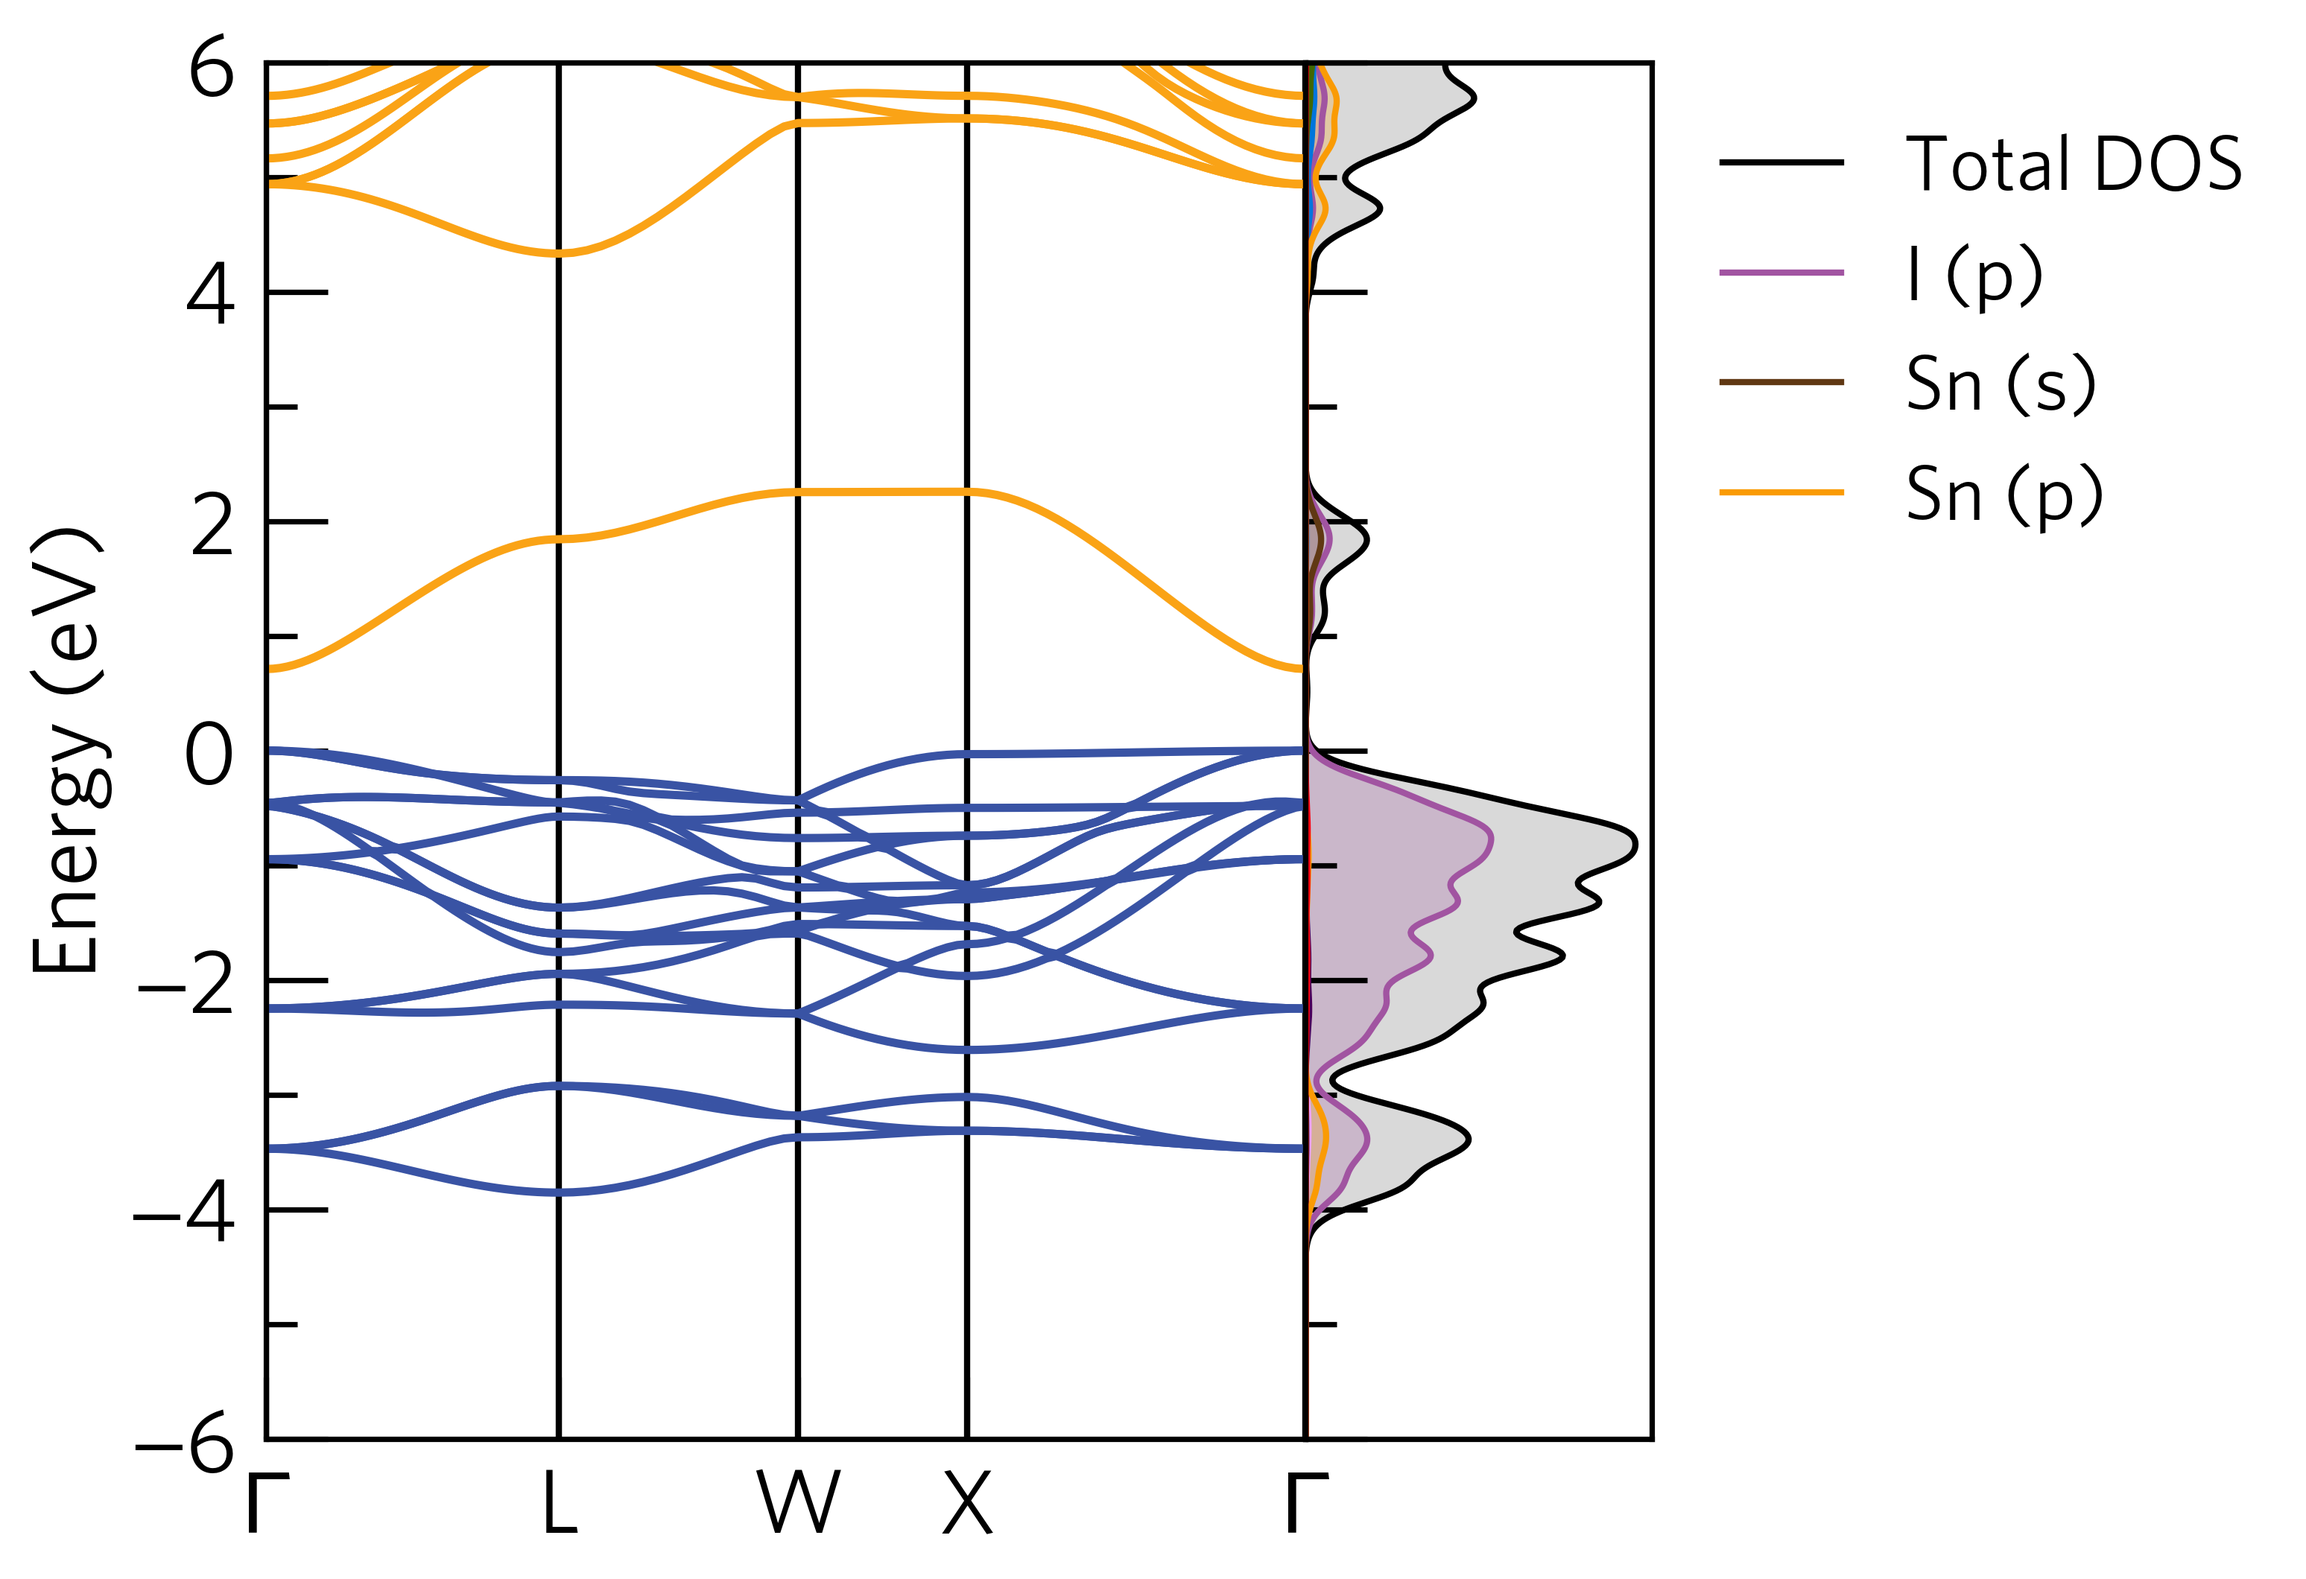
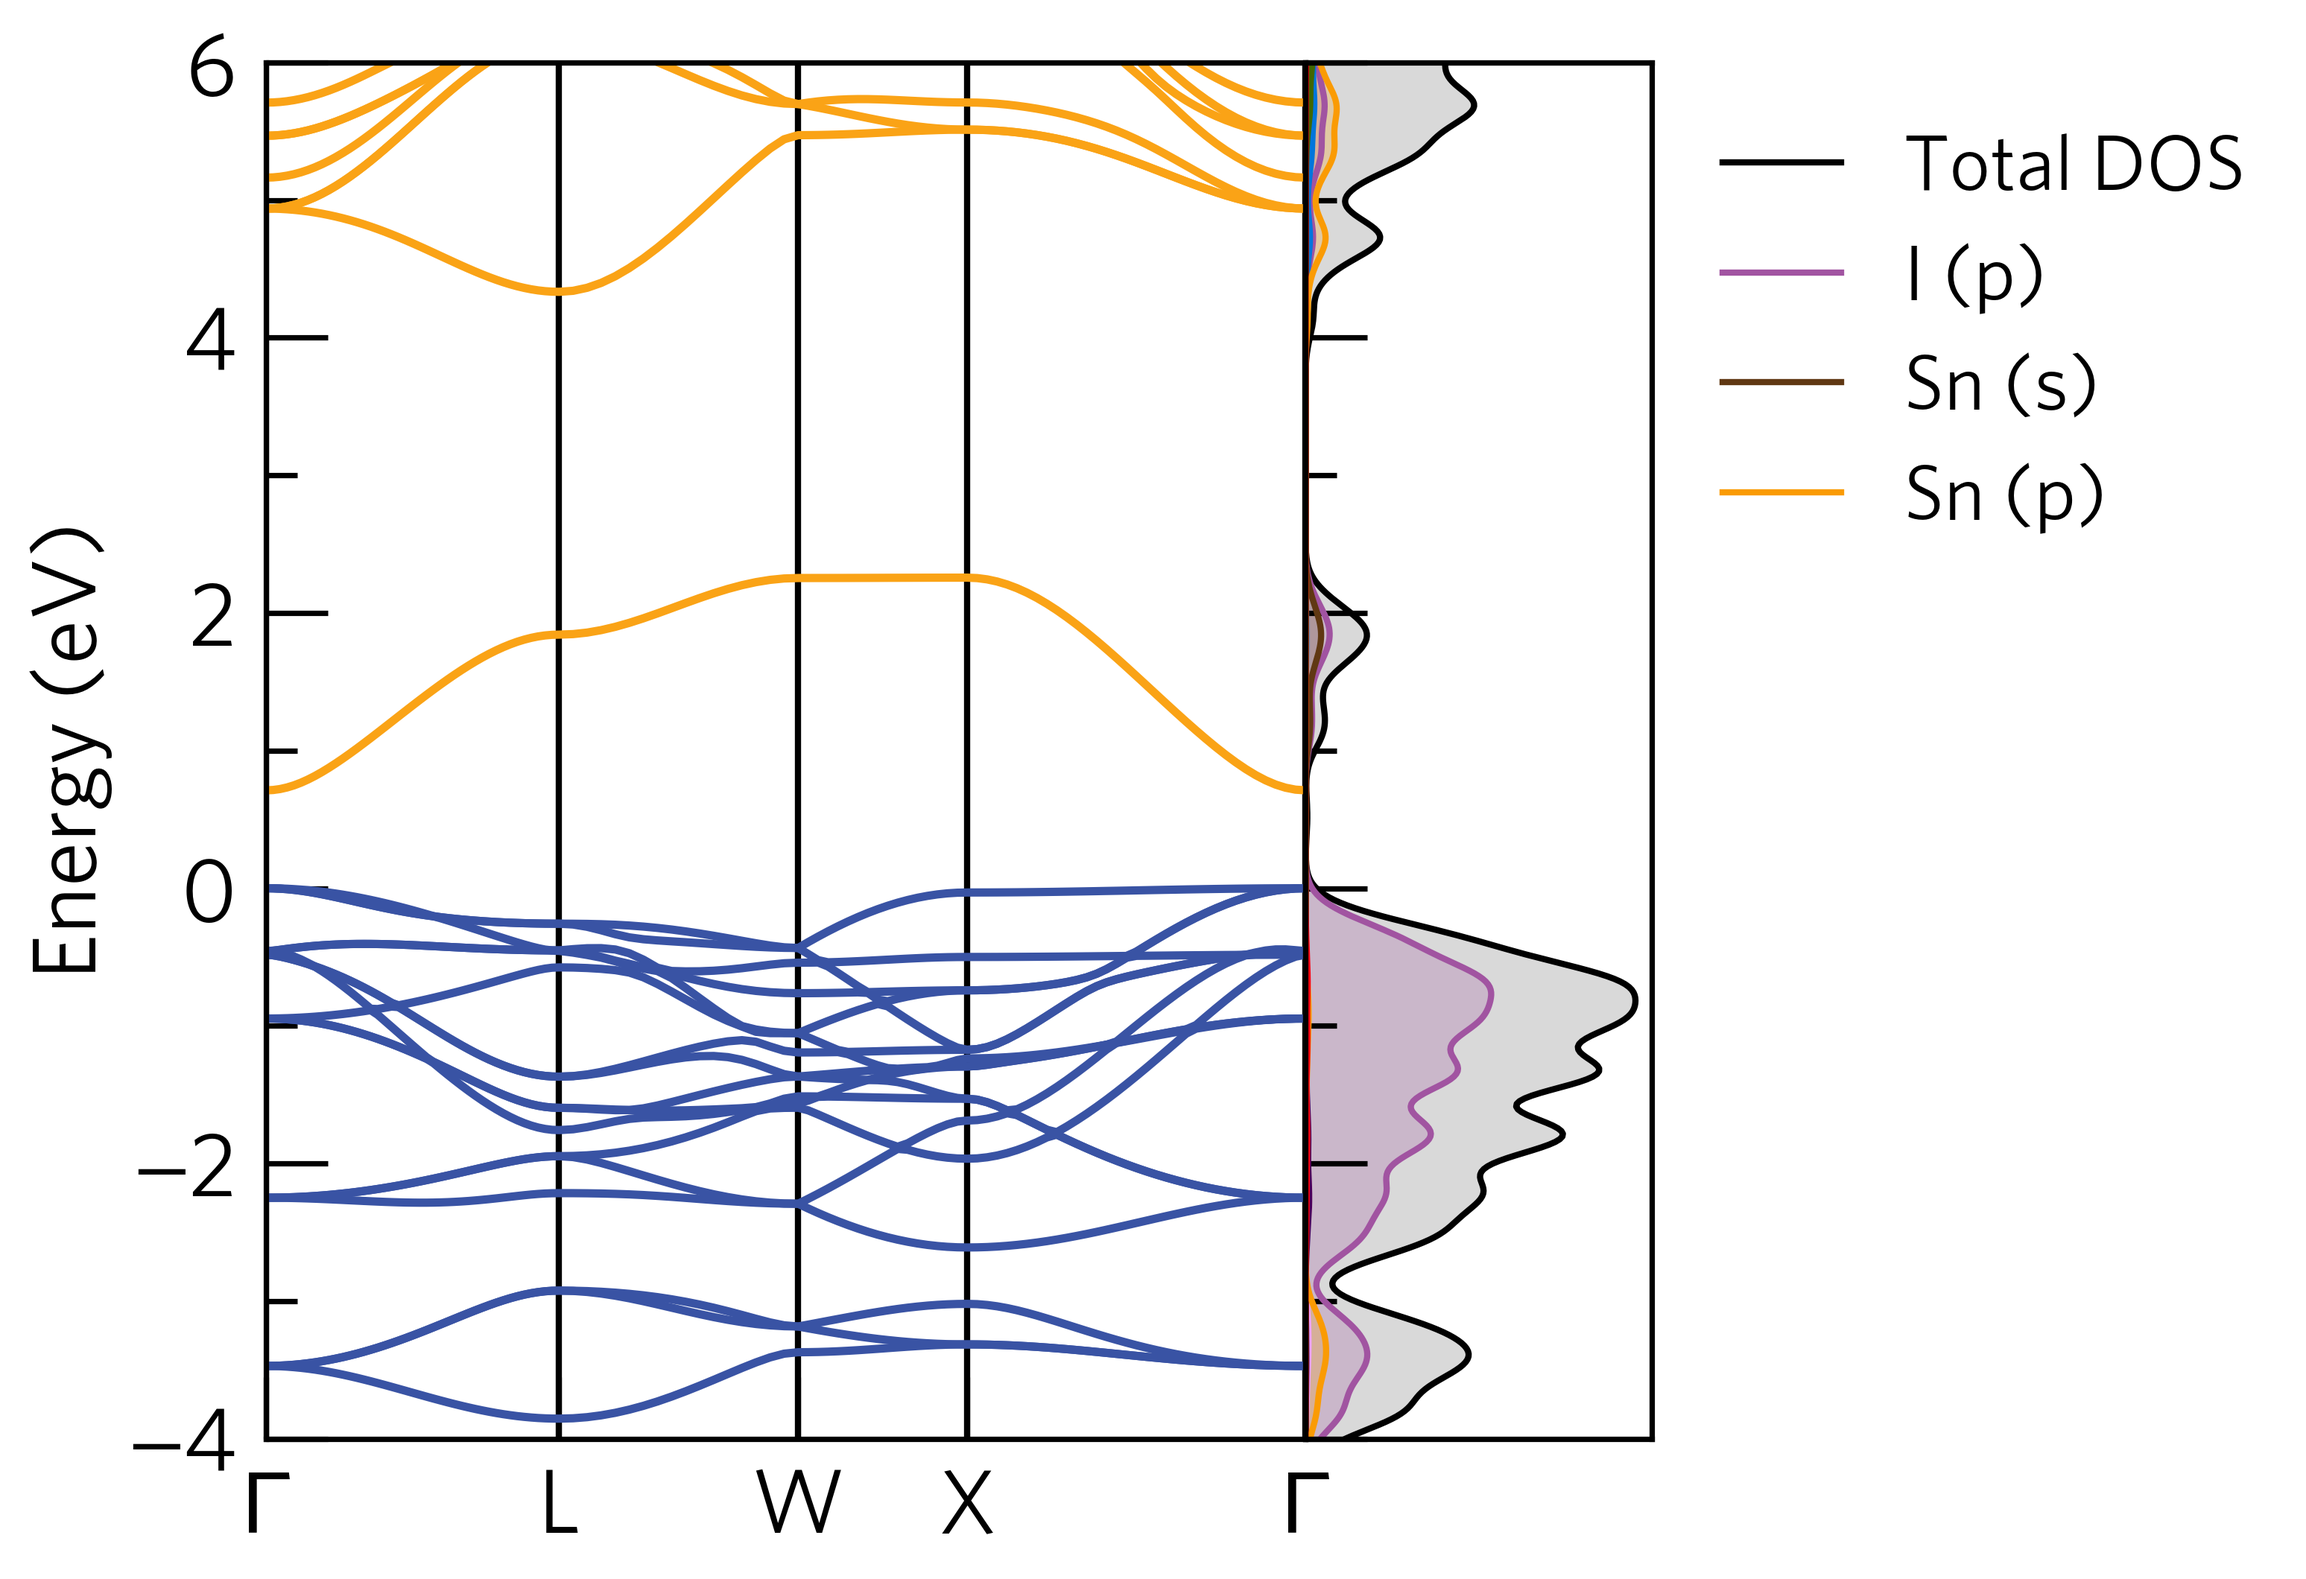
DOC: Nicer bandplot image

diff --git a/docs/source/vaspy-bandplot.rst b/docs/source/vaspy-bandplot.rst
@@ -82,7 +82,7 @@ using the ``--dos`` option. A ``vasprun.xml`` to use for the density of states i
 is required as input. For example, if we run the following command in the
 ``vaspy/tests/data/Cs2SnI6/bandstructure`` folder, the output will look like::
 
-    vaspy-bandplot --dos ../dos/vasprun.xml
+    vaspy-bandplot --dos ../dos/vasprun.xml.gz --ymin -4
 
 .. image:: figures/band_with_dos.png
    :height: 400px
